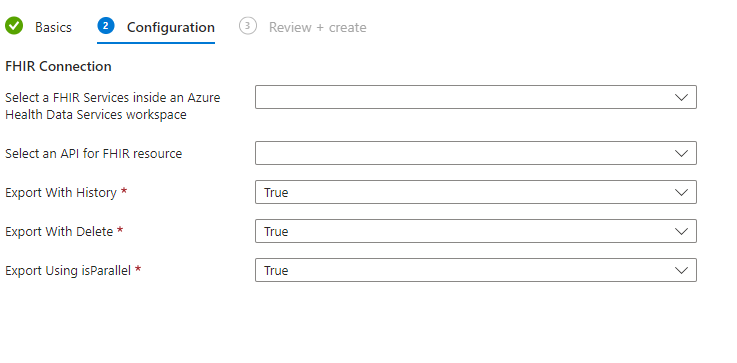
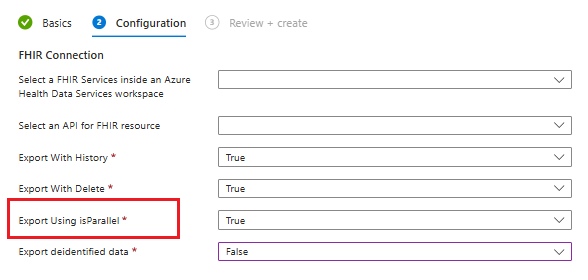
Added screenshot for export deidentified data

diff --git a/FHIR-data-migration-tool-docs/README.md b/FHIR-data-migration-tool-docs/README.md
@@ -224,7 +224,7 @@ During the deployment of the migration tool, users have the option to enable or 
 
 Take a look at the screenshot below to learn how to configure the export settings. By default, exporting with history and deletion is set to true. If you prefer to export without history and deletion, you can change the value to false.
 
-![Export](images/Export-with-history-delete.png)
+![Export](images/Export-with-history-and-delete.png)
 
 Upon the completion of deployment, users can still make adjustments to the export settings for history and deletion by modifying the values within the Azure function's environment variable. 
 
@@ -273,11 +273,11 @@ Value: {"Patient", "Observation", "Encounter"}
 Export can be done with de-identified data. <br>
 __Note__: The de-identification of data during export is support when isparallel is set to true as Azure API for FHIR only supports de-identified export at the system level ($export).
 
-During the deployment of the migration tool, users have the option to enable or disable the exporting with de-identification by specifying their values as true or false.
+During the deployment of the migration tool, users have the option to enable or disable exporting with de-identification by specifying their values as true or false. <br>If you select true, you need to enter the configuration file name.
 
 Take a look at the screenshot below to learn how to configure the export settings. By default, exporting with de-identification is set to false.
 
-![De-Identified]()
+![De-Identified](images/Export-with-history-and-delete-deidentified.png)
 
 Once the $export operation is completed, the export operation content location is stored in Azure storage table and the next export status orchestrator in the durable function picks the details from the storage table and checks the status of the export.
 
